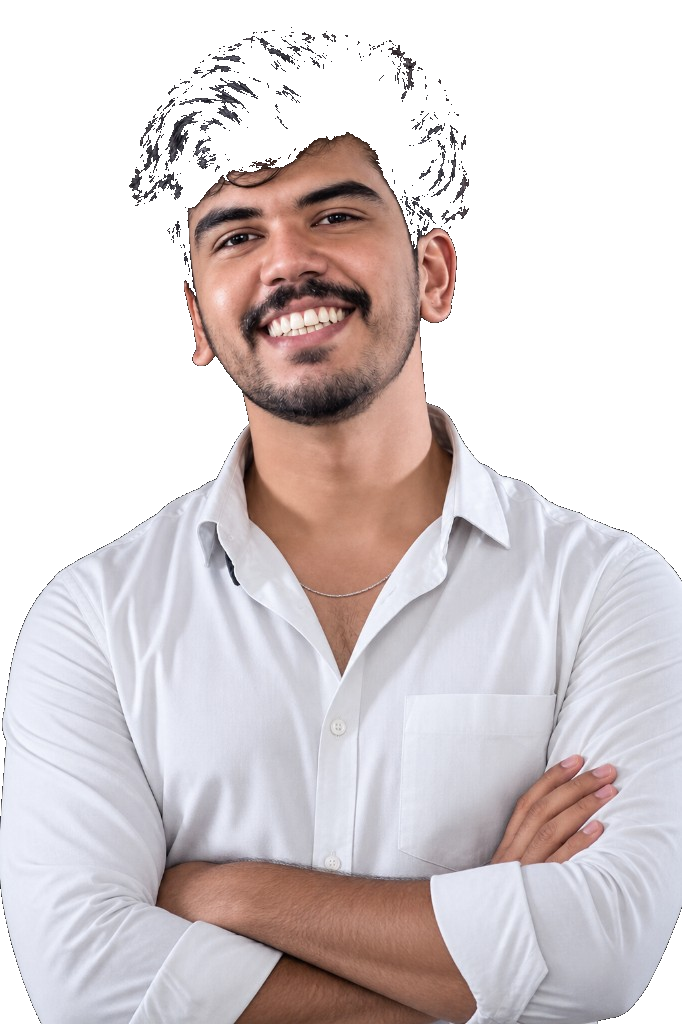
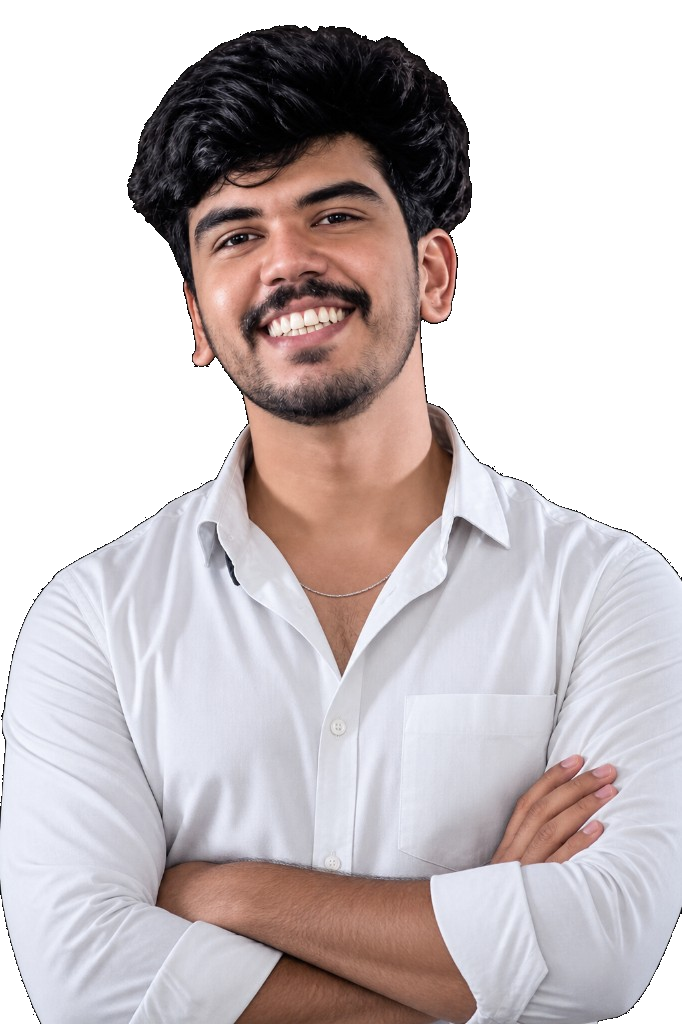
Restore hero portrait cutout without eating hair.
Reprocess the uploaded studio photo with a stricter black-only matte so dark hair stays intact on the light UI.

Changed region(s): [[0.1848, 0.0, 0.7082, 0.2812]]

diff --git a/src/components/Hero.jsx b/src/components/Hero.jsx
@@ -147,7 +147,7 @@ export default function Hero() {
               <div className="corner-frame-alt absolute inset-0" />
             </div>
             <img
-              src="/sivesh-portrait.png?v=8"
+              src="/sivesh-portrait.png?v=9"
               alt={`${profile.fullName}, ${profile.role}`}
               className="hero-portrait-img relative"
               width={682}
